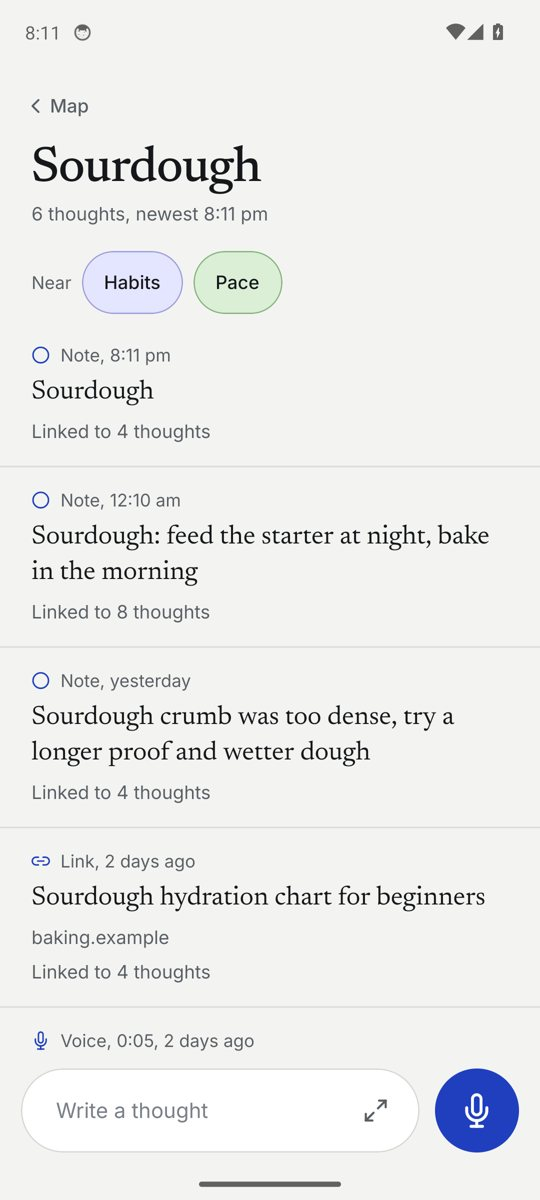
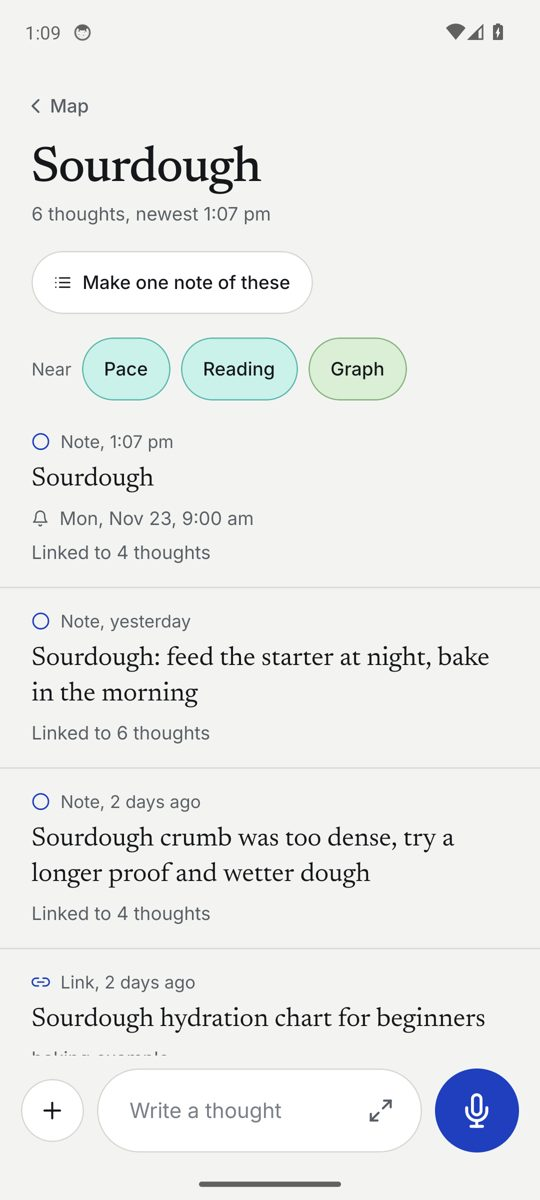
Refresh screenshots and status from the 0.3.0-beta.1 run [skip ci]
Also points the walkthrough's home-layout step at the home screen; it
had photographed a group screen instead.

Claude-Session: https://claude.ai/code/session_01RqrPe39gNuUagwTNJssm7J

diff --git a/docs/STATUS.md b/docs/STATUS.md
@@ -6,7 +6,7 @@ _Last updated: 16 Nov 2026, v0.3.0-beta.1 on `main`. Update this file whenever y
 
 - The app is **0.3.0**. Work is pushed straight to `main`; every release is a `0.x` beta (pre-release) until the owner says otherwise.
 - Two earlier releases were numbered `v1.0.0` and `v2.0.0-beta.1`. The owner has asked for them to be removed; that has to be done by hand on GitHub's Releases page (the agent environment cannot delete releases or tags).
-- 0.3.0 was written and checked locally as one batch and pushed once. **Everything native in it compiled for the first time in CI**, so read the latest run before trusting any line below marked "new in 0.3".
+- 0.3.0 was written and checked locally as one batch and pushed once, as the `release/v0.3.0-beta.1` branch. That one run built both APKs, passed the emulator walkthrough and published <https://github.com/pavitra14/engram/releases/tag/v0.3.0-beta.1>. Its screenshots are on the `smoke-shots-release-v0.3.0-beta.1` branch.
 
 ## What 0.3 changed
 
@@ -28,11 +28,29 @@ In Node (`npm run check`), running the app's own `repo.ts`: inserts, search and 
 
 Locally: typecheck, lint, a full Android JS bundle, and `expo prebuild` generating the widget receivers and the app-visibility queries.
 
-On the emulator before 0.3 (still expected to hold, re-check in the latest run): capture, sharing text and a picture in, a reminder scheduled with Android, search, the map, both themes, the model self-check passing with the processor build.
+On the Android 14 emulator, from the 0.3.0-beta.1 run's screenshots and log:
+
+- The PowerSync database opens on a fresh install; sample thoughts load, link and group
+- Typing a thought; the thought screen with its Title field and body editor
+- The to-do menu sliding up; "in a week" putting the thought on the list with its time, and Android holding the alarm
+- The to-do screen with its add line, a "Later" section and the important star
+- "Worth another look" on Today
+- Sharing a picture and text in
+- Search finding a thought through the new index
+- Linking by meaning: the model passes its self-check (pair 0.277, unrelated 0.194), and the garage note links to the car note with the reason "Similar meaning", with no words in common
+- The map with eight groups and two ungrouped thoughts drawn as their own small circles
+- A group screen with "Make one note of these"
+- A titled note typed in the new editor and saved
+- Settings with the Home screen control and the speech pack row
+- Android registered both widgets (`dumpsys appwidget` lists `widget.QuickThought` and `widget.Todo`)
+- The black theme
+- No crash and no `engram:` error line in the log
 
 ## Not verified by anyone
 
-- **Everything "new in 0.3" on a device**, until the first CI run's screenshots are read: PowerSync opening and the old-database import, the rich text editor, the home layouts, transitions, widgets, notification buttons.
+- **The two new home layouts.** The walkthrough photographed the wrong screen for both (it was still on a group screen); `smoke.sh` is fixed for the next run. They reuse the map drawing that is verified on the Map screen.
+- **The old-database import on a phone.** The emulator starts empty, so only the Node tests cover it.
+- **Formatting buttons, drawn widgets, notification buttons, how the transitions feel.** The walkthrough types and takes still pictures; it does not press these.
 - **Does a PowerSync table behave like the plain tables the tests use?** The tests cannot tell. Watch for errors mentioning views or triggers.
 - **Linking by meaning on real notes.** On the emulator the sample paraphrase pair scored 0.28 against 0.19 for an unrelated pair, which is a narrow margin. The thresholds in `linker.ts` were set from that one run.
 - **The Claude and ChatGPT links.** They open `https://claude.ai/new?q=…` and `https://chatgpt.com/?q=…`. Whether each app opens with the draft filled in has not been tried; the draft is also put on the clipboard for that reason.
@@ -55,8 +73,6 @@ On the emulator before 0.3 (still expected to hold, re-check in the latest run):
 
 Ordered by priority. Each item has a done-when line so any agent can pick it up.
 
-0. **Read the first 0.3 CI run and fix what it shows.** Screenshots are on `smoke-shots`. Then refresh `docs/screenshots/` and the README from them.
-   _Done when:_ every screenshot shows the screen it is named for and the log has no `engram:` error lines.
 0. **Tune linking by meaning on real notes.** The self-check passes on the emulator with a narrow margin. Collect the similarity spread from the owner's phone (logged as `engram: meaning ready; …`) and adjust `MEANING_*` in `linker.ts`.
    _Done when:_ the car and garage pair in the sample data links on a real phone and unrelated notes do not.
 1. **Verify on a real device.** Install v2 on the owner's phone and go through "Not yet verified". Fix what breaks.

diff --git a/README.md b/README.md
@@ -9,7 +9,7 @@ Everything stays on your phone. There is no account and no server.
 <p>
   <img src="docs/screenshots/today.jpg" width="200" alt="Today: your thoughts as a list, with to-dos on top">
   <img src="docs/screenshots/map.jpg" width="200" alt="The map: groups of related thoughts as named circles">
-  <img src="docs/screenshots/todo.jpg" width="200" alt="The to-do list with a reminder">
+  <img src="docs/screenshots/note.jpg" width="200" alt="A note, linked by meaning to another that shares no words with it">
   <img src="docs/screenshots/today-black.jpg" width="200" alt="Today in the true-black theme">
 </p>
 
